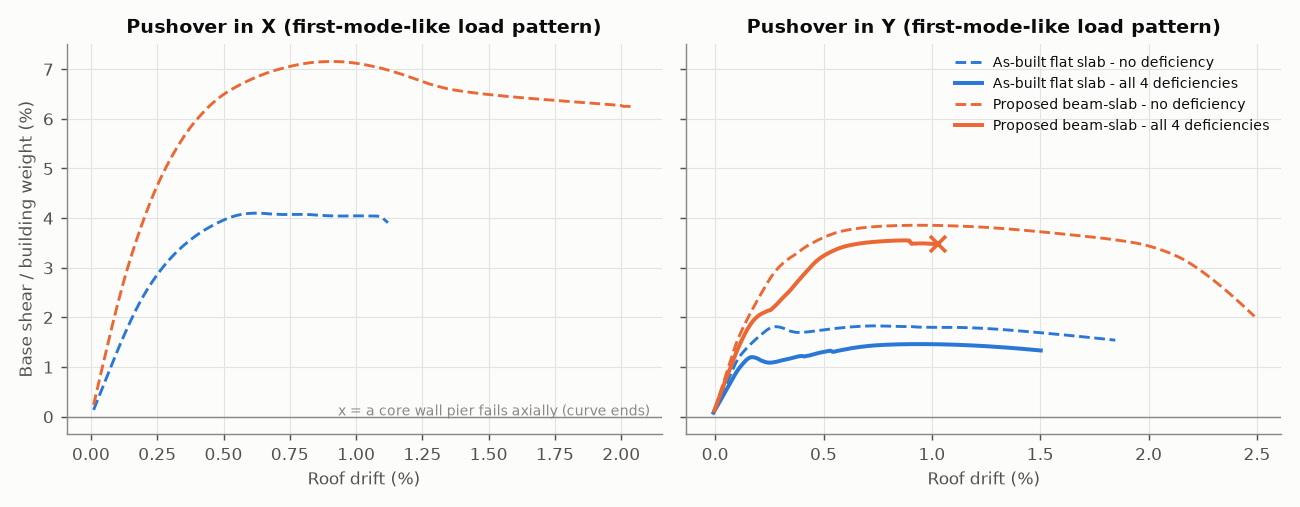
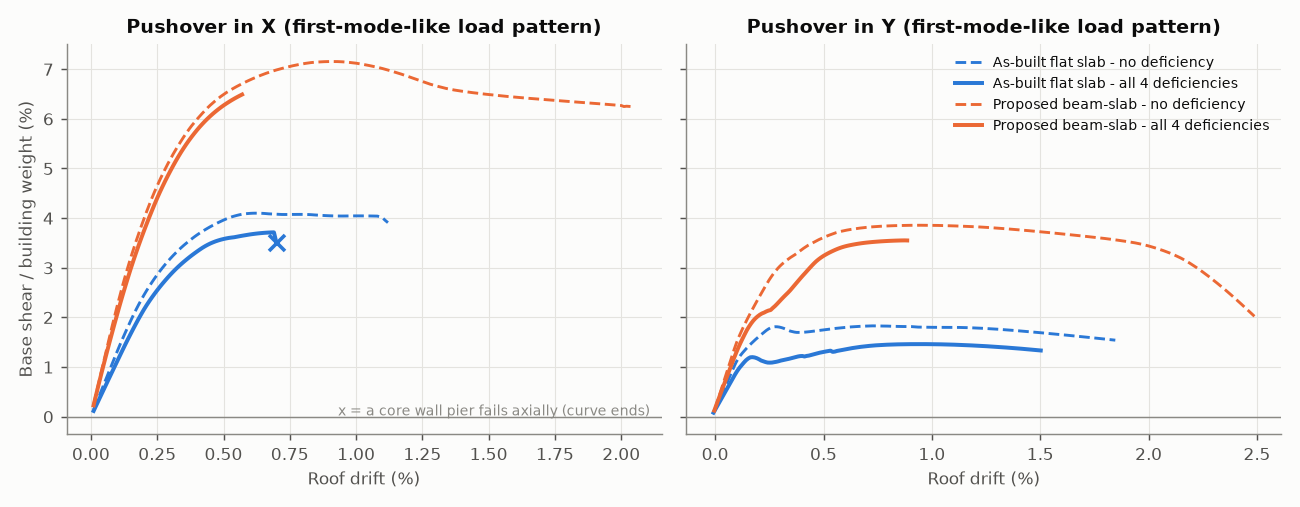
All collapse searches finished; post-processing on the complete set (pushover curves also cut at a diverging core-shear reversal)
Claude-Session: https://claude.ai/code/session_01BC3mJNgnAnFkLpRTHoL5vQ

diff --git a/phase2_opensees/run_03_postprocess.py b/phase2_opensees/run_03_postprocess.py
@@ -164,12 +164,17 @@ def po_curve(r):
     the loss of a core pier ends the useful pushover.  Returns (curve, cut) - cut True if the
     curve was ended by a pier failure."""
     c = np.array(r.get("curve") or [])
+    if len(c) > 5:
+        # a core base shear that reverses sign under a monotonic push marks a diverging solution
+        # in the last steps before non-convergence: drop those steps (not strength)
+        neg = np.nonzero(c[5:, 1] * np.sign(c[5, 1]) < 0)[0]
+        if len(neg):
+            c = c[:5 + neg[0]]
     fax = first_event(r.get("events", []), ("wall_axial_failure",))
     if fax and len(c):
         n = max(int(fax["t"]) - 1, 1)
-        if n < len(c):
+        if n <= len(c):
             return c[:n], True
-        return c, True
     return c, False
 
 
